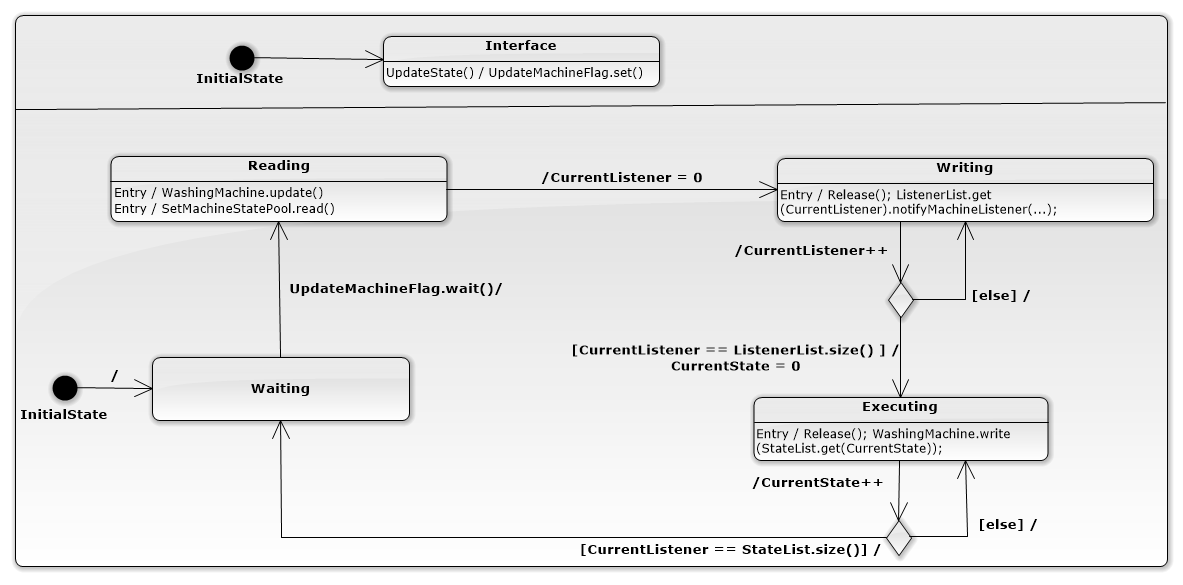
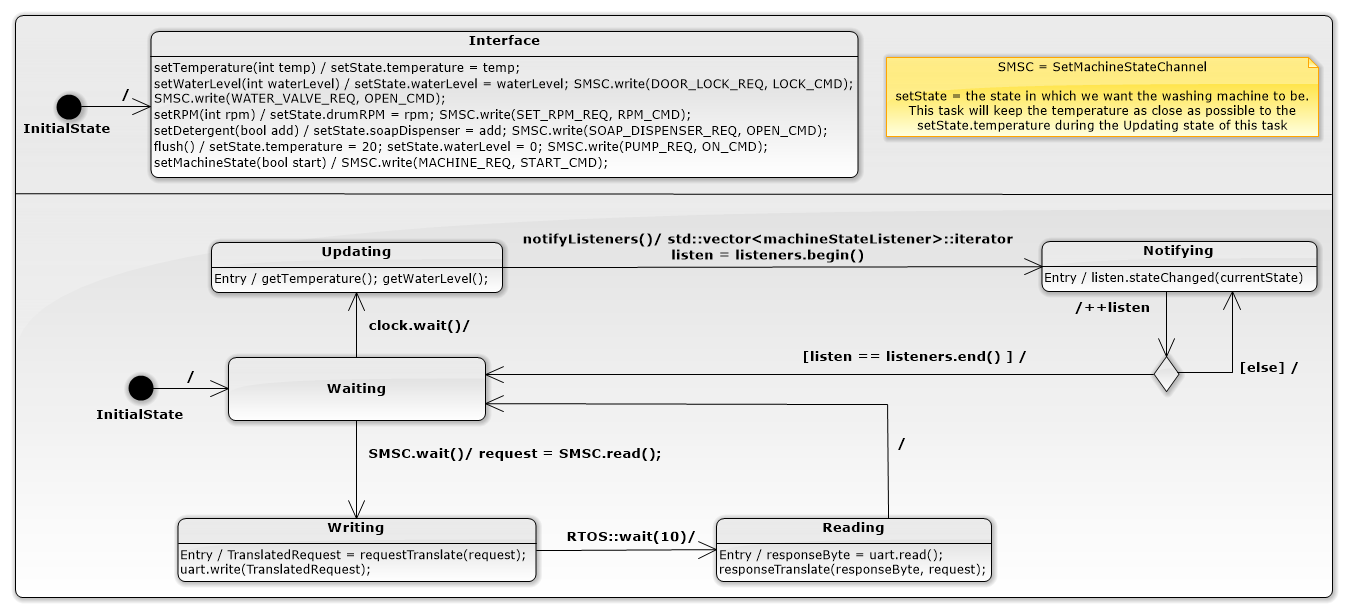
vernieuwde versie van MachineInteractionTask STD toegevoegd

diff --git a/src/machineInteractionTask.h b/src/machineInteractionTask.h
@@ -52,7 +52,8 @@ enum commandEnum
 	RPM_counterClockwise
 };
 
-//! A struct dat combines a request and his command.
+//! A struct that combines a request and his command. See requestEnum and commandEnum
+//! for all possible request and commands. This struct is used for sending requests through the uart.
 struct RequestStruct
 {
 	int request;
